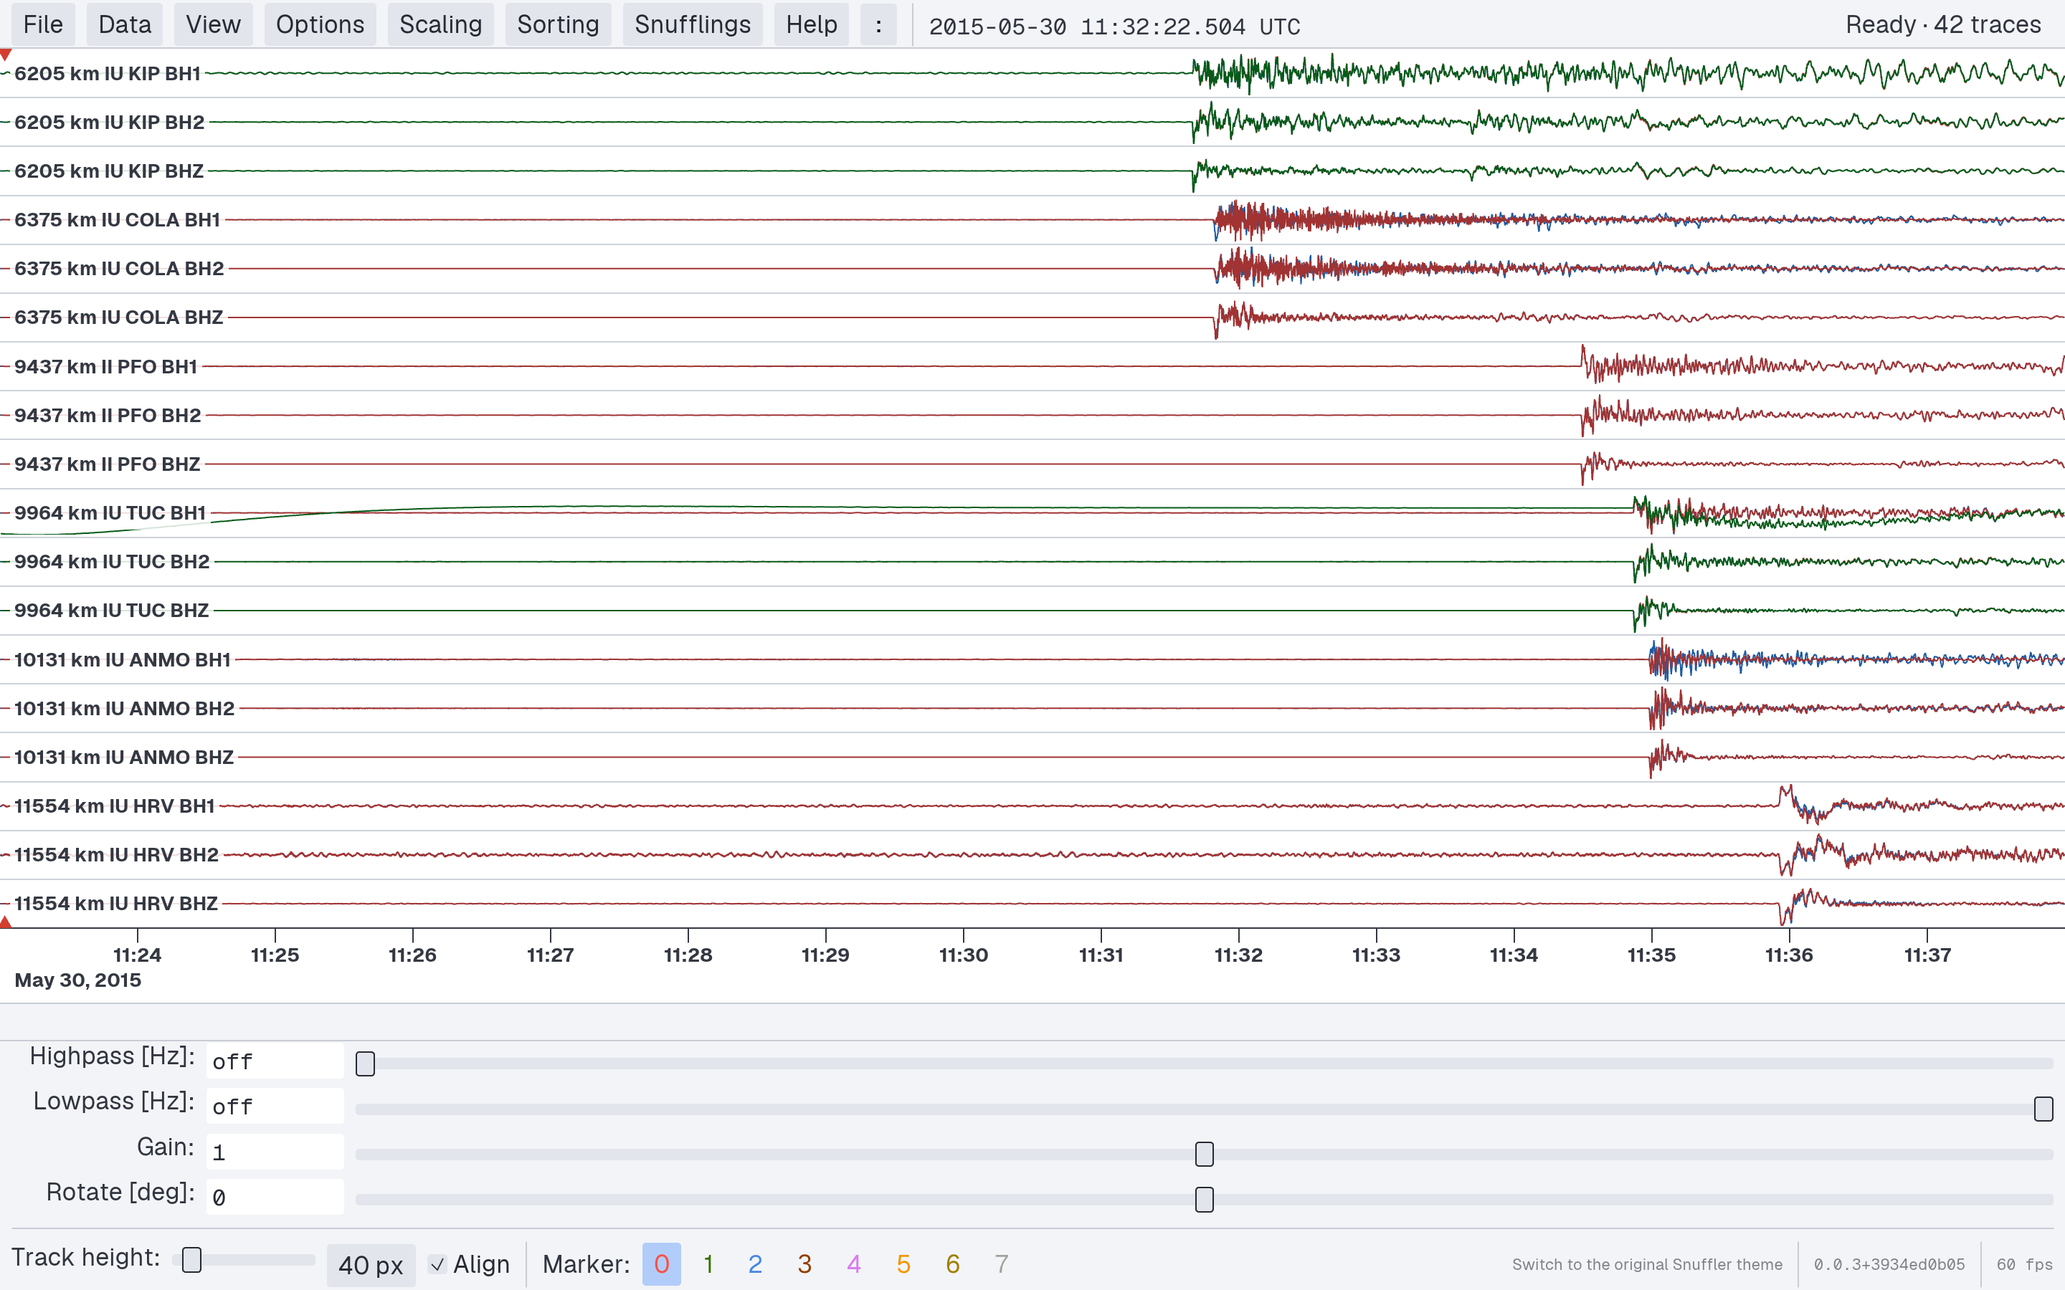
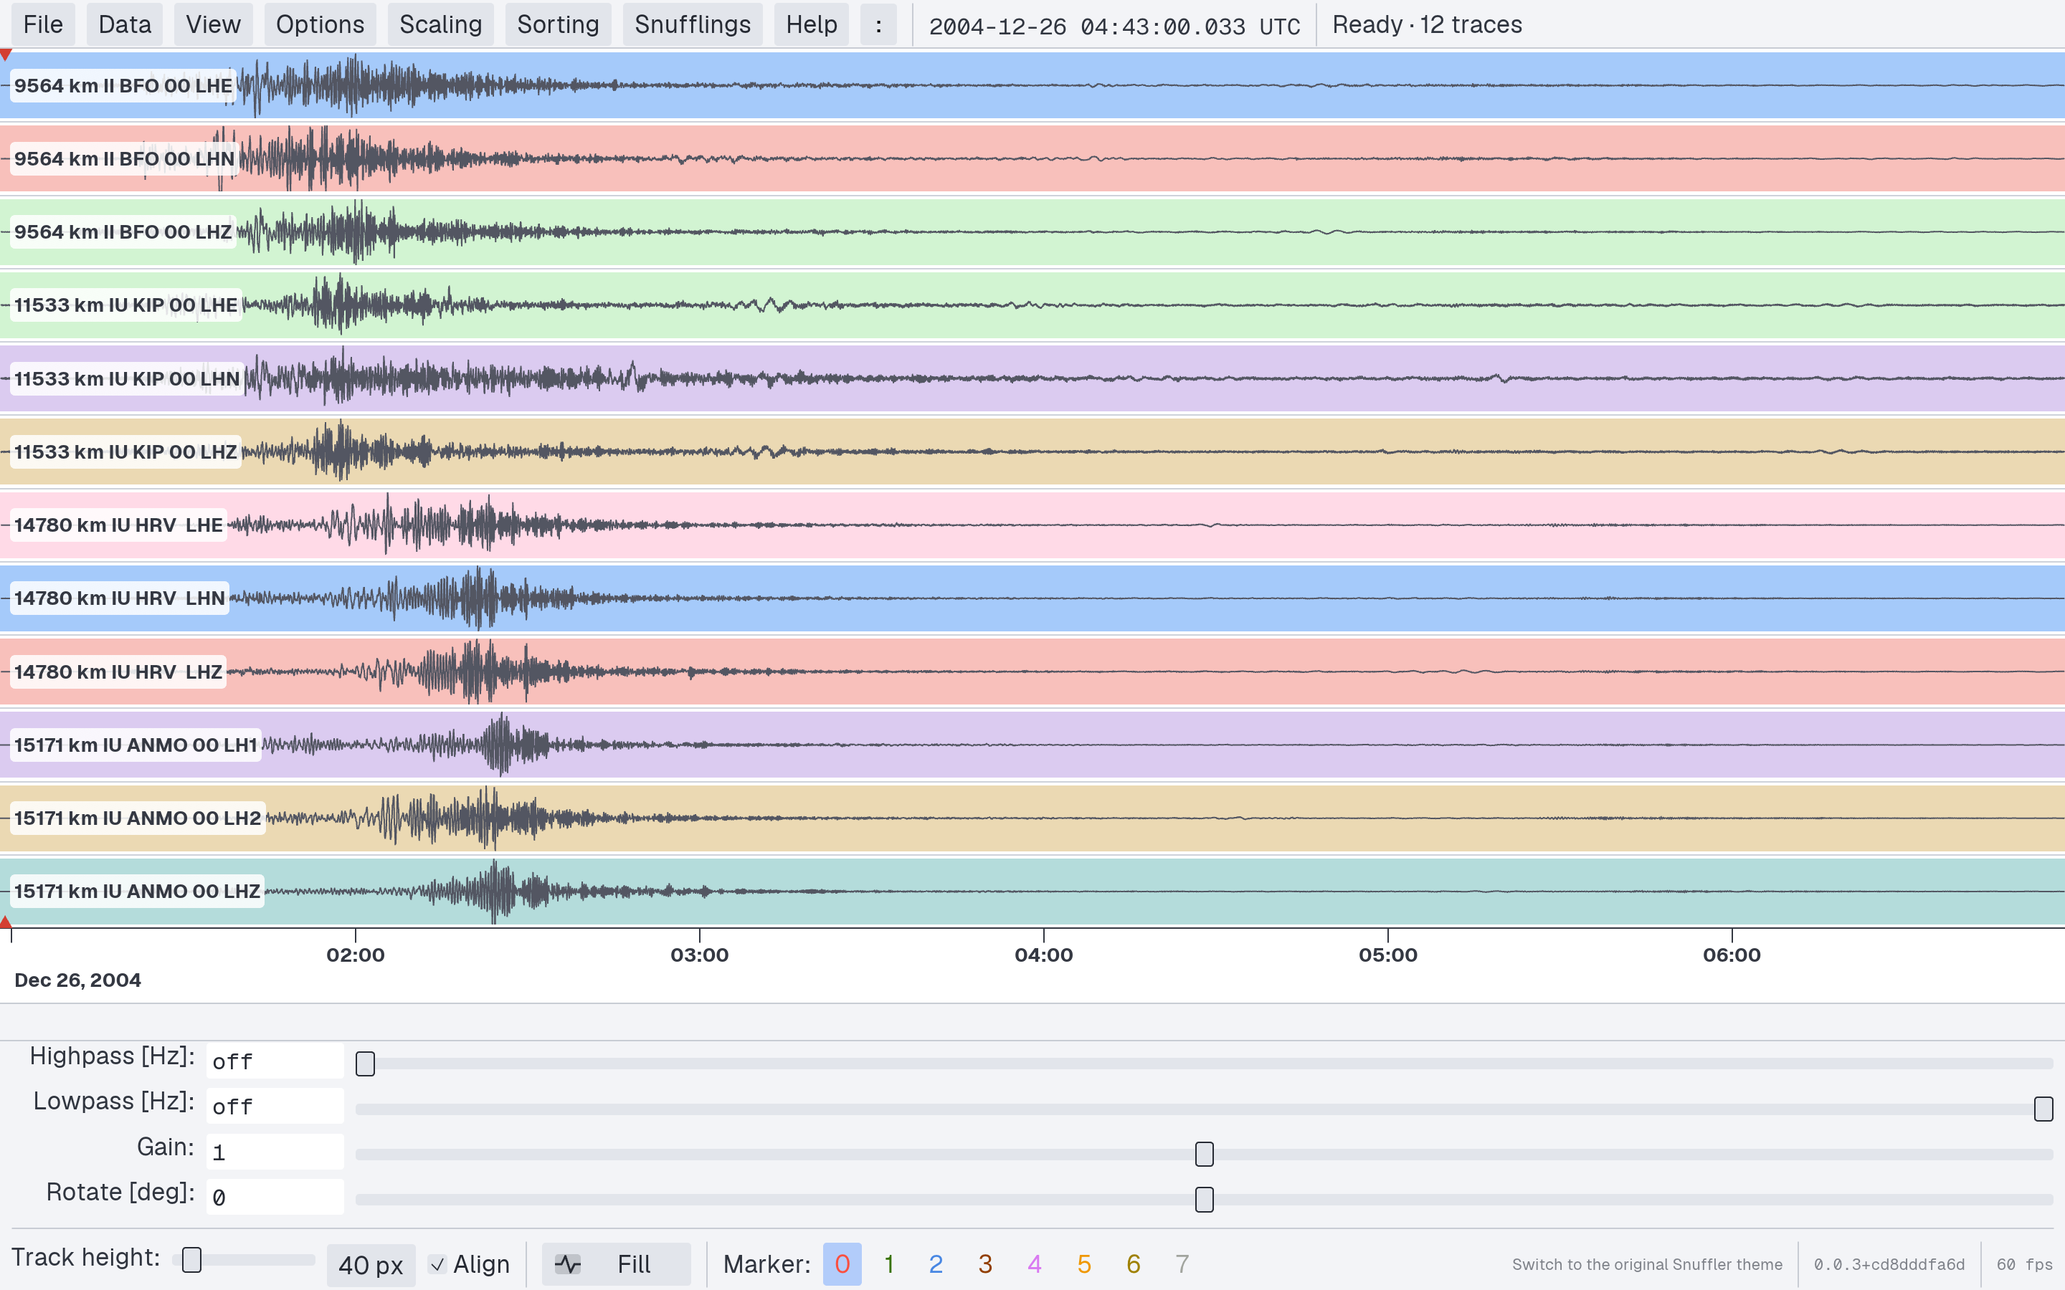
feat(ui): add stroke and fill shortcut with fill defaults

diff --git a/tests/a11y_browser_validate.ts b/tests/a11y_browser_validate.ts
@@ -313,6 +313,92 @@ async function checkPointerMode(page: Page): Promise<void> {
   await page.waitForTimeout(300);
 }
 
+async function checkTraceDisplayShortcut(page: Page): Promise<void> {
+  console.log("\ntrace display shortcut");
+  const view = page.getByRole("button", { name: "View", exact: true });
+  const stroke = page.getByRole("button", { name: "Trace display: Stroke", exact: true });
+  const fill = page.getByRole("button", { name: "Trace display: Fill", exact: true });
+  const mixed = page.getByRole("button", { name: "Trace display: Mixed", exact: true });
+  const boxesControl = page.getByRole("checkbox", { name: "Show boxes", exact: true });
+  const settings = async () => {
+    await view.evaluate((element) => (element as HTMLElement).click());
+    await boxesControl.waitFor();
+    const result = {
+      boxes:
+        (await page
+          .getByRole("checkbox", { name: "Show boxes", exact: true })
+          .getAttribute("aria-checked")) === "true",
+      colored:
+        (await page
+          .getByRole("checkbox", { name: "Color traces", exact: true })
+          .getAttribute("aria-checked")) === "true",
+    };
+    await view.evaluate((element) => (element as HTMLElement).click());
+    await boxesControl.waitFor({ state: "hidden" });
+    return result;
+  };
+  const setSettings = async (boxes: boolean, colored: boolean) => {
+    await view.evaluate((element) => (element as HTMLElement).click());
+    await boxesControl.waitFor();
+    for (const option of [
+      { name: "Show boxes", checked: boxes },
+      { name: "Color traces", checked: colored },
+    ]) {
+      const control = page.getByRole("checkbox", { name: option.name, exact: true });
+      if ((await control.getAttribute("aria-checked")) !== String(option.checked)) {
+        await control.evaluate((element) => (element as HTMLElement).click());
+        await page.waitForFunction(
+          ({ name, checked }) =>
+            [...document.querySelectorAll("#snuffler-a11y [role=checkbox]")].some(
+              (element) =>
+                element.getAttribute("aria-label") === name &&
+                element.getAttribute("aria-checked") === String(checked)
+            ),
+          option
+        );
+      }
+    }
+    await view.evaluate((element) => (element as HTMLElement).click());
+    await boxesControl.waitFor({ state: "hidden" });
+  };
+
+  await setSettings(false, true);
+  await stroke.waitFor();
+  const strokeBox = await stroke.boundingBox();
+  await stroke.click();
+  await fill.waitFor();
+  const fillBox = await fill.boundingBox();
+  let options = await settings();
+  check("Stroke switches both View options to Fill", options.boxes && !options.colored);
+  check("the shortcut keeps its width when toggled", strokeBox?.width === fillBox?.width);
+
+  await fill.click();
+  await stroke.waitFor();
+  options = await settings();
+  check("Fill switches both View options to Stroke", !options.boxes && options.colored);
+
+  for (const enabled of [true, false]) {
+    await setSettings(enabled, enabled);
+    await mixed.waitFor();
+    check(
+      `both options ${enabled ? "on" : "off"} disable the Mixed shortcut`,
+      !(await mixed.isEnabled())
+    );
+    await mixed.evaluate((element) => (element as HTMLButtonElement).click());
+    options = await settings();
+    check(
+      "the disabled shortcut preserves custom View settings",
+      options.boxes === enabled && options.colored === enabled
+    );
+  }
+
+  await setSettings(true, false);
+  await fill.waitFor();
+  check("complementary View settings re-enable the shortcut", await fill.isEnabled());
+  await fill.click();
+  await stroke.waitFor();
+}
+
 async function checkKeyboard(page: Page): Promise<void> {
   console.log("\nkeyboard");
   await page.$eval(`${OVERLAY} [aria-label="Options"]`, (element) =>
@@ -678,6 +764,7 @@ async function main(): Promise<void> {
     await checkStructure(page);
     await checkBorrowedNames(page);
     await checkPointerMode(page);
+    await checkTraceDisplayShortcut(page);
     await checkKeyboard(page);
     await checkResize(page);
     await checkCanvasStillReachable(page);

diff --git a/tests/parity/inventory_web.ts b/tests/parity/inventory_web.ts
@@ -246,7 +246,9 @@ function controlsFrom(nodes: OverlayNode[]): Record<string, unknown>[] {
   const controls: Record<string, unknown>[] = [];
   const seen = new Set<string>();
   for (const node of nodes) {
-    if (!interactiveRoles.has(node.role) || seen.has(node.name)) continue;
+    const traceDisplayShortcut = node.role === "button" && node.name.startsWith("Trace display: ");
+    if ((!interactiveRoles.has(node.role) && !traceDisplayShortcut) || seen.has(node.name))
+      continue;
     seen.add(node.name);
     controls.push({
       name: node.name,

diff --git a/crates/snuffler-web-egui/src/view/controls.rs b/crates/snuffler-web-egui/src/view/controls.rs
@@ -8,6 +8,7 @@
 
 use std::ops::RangeInclusive;
 
+use egui::AtomExt as _;
 use snuffler_web_core::state::{
     AppState, ColorScale, Colormap, MAX_TRACK_HEIGHT_PX, MIN_TRACK_HEIGHT_PX, ViewMode,
     WaterfallSettings,
@@ -356,6 +357,8 @@ pub fn show(
     ui.horizontal_wrapped(|ui| {
         track_height_controls(ui, state, track_count);
         ui.separator();
+        trace_display_button(ui, state);
+        ui.separator();
         marker_kind_buttons(ui, state);
         show_readout(ui, state);
     });
@@ -363,6 +366,102 @@ pub fn show(
     // Snuffler's `ColorbarControl`, shown only in waterfall mode
     if waterfall {
         ui.horizontal_wrapped(|ui| colorbar_controls(ui, &mut state.waterfall));
+    }
+}
+
+/// A shortcut for the two complementary combinations of the existing drawing options.
+fn trace_display_button(ui: &mut egui::Ui, state: &mut AppState) {
+    let canvas = crate::view::palette_for(ui.ctx().theme(), state.wiggle_theme).theme;
+    let boxes = state.boxes_visible(canvas);
+    let colored = state.color_traces(canvas);
+    let label = match (boxes, colored) {
+        (false, true) => "Stroke",
+        (true, false) => "Fill",
+        _ => "Mixed",
+    };
+    let waterfall = state.view_mode == ViewMode::Waterfall;
+    let enabled = boxes != colored && !waterfall;
+    let tooltip = if waterfall {
+        "Disabled in Waterfall view; switch to Wiggle to toggle colored strokes and filled boxes."
+    } else {
+        match (boxes, colored) {
+            (false, true) => {
+                "Switch to filled boxes with monochrome traces instead of colored strokes."
+            }
+            (true, false) => "Switch to colored strokes without boxes.",
+            (true, true) => {
+                "Disabled because Show boxes and Color traces are both on; change one in View to toggle colored strokes and filled boxes."
+            }
+            (false, false) => {
+                "Disabled because Show boxes and Color traces are both off; change one in View to toggle colored strokes and filled boxes."
+            }
+        }
+    };
+    let icon_id = ui.make_persistent_id("trace-display-icon");
+    let response = ui
+        .add_enabled_ui(enabled, |ui| {
+            let output = egui::Button::new((
+                egui::Atom::custom(icon_id, egui::vec2(20.0, 16.0)),
+                label
+                    .atom_grow(true)
+                    .atom_align(egui::Align2::CENTER_CENTER),
+            ))
+            .min_size(egui::vec2(104.0, ui.spacing().interact_size.y))
+            .atom_ui(ui);
+            if let Some(rect) = output.rect(icon_id) {
+                let ink = ui.style().interact(&output.response).fg_stroke.color;
+                let rect = rect.shrink(1.0);
+                let painter = ui.painter();
+                if boxes == colored {
+                    painter.rect_stroke(
+                        rect,
+                        2.0,
+                        egui::Stroke::new(1.5_f32, ink),
+                        egui::StrokeKind::Inside,
+                    );
+                    painter.line_segment(
+                        [
+                            rect.left_center() + egui::vec2(4.0, 0.0),
+                            rect.right_center() - egui::vec2(4.0, 0.0),
+                        ],
+                        egui::Stroke::new(1.5_f32, ink),
+                    );
+                } else {
+                    if boxes {
+                        let opacity = if ui.visuals().dark_mode { 0.35 } else { 0.18 };
+                        painter.rect_filled(rect, 2.0, ink.gamma_multiply(opacity));
+                    }
+                    let point = |x, y| rect.lerp_inside(egui::vec2(x, y));
+                    painter.add(egui::Shape::line(
+                        vec![
+                            point(0.0, 0.5),
+                            point(0.25, 0.5),
+                            point(0.4, 0.1),
+                            point(0.6, 0.9),
+                            point(0.75, 0.5),
+                            point(1.0, 0.5),
+                        ],
+                        egui::Stroke::new(1.5_f32, ink),
+                    ));
+                }
+            }
+            output.response
+        })
+        .inner;
+    response.widget_info(|| {
+        egui::WidgetInfo::labeled(
+            egui::WidgetType::Button,
+            response.enabled(),
+            format!("Trace display: {label}"),
+        )
+    });
+    if response
+        .on_hover_text(tooltip)
+        .on_disabled_hover_text(tooltip)
+        .clicked()
+    {
+        state.show_boxes = Some(!boxes);
+        state.show_color_traces = Some(!colored);
     }
 }
 

diff --git a/crates/snuffler-web-core/src/theme.rs b/crates/snuffler-web-core/src/theme.rs
@@ -77,7 +77,7 @@ pub enum WiggleTheme {
     SnufflerQt,
     /// Mineral blues, brick red and leaf green, balanced by quieter
     /// supporting inks.
-    /// The one web theme that colours every stroke, see [`Self::stroke_policy`].
+    /// Colored boxes with monochrome strokes by default.
     Fieldbook,
     /// Fired clay and ochre, balanced by indigo, sage and glazed teal.
     Kiln,
@@ -172,7 +172,7 @@ impl WiggleTheme {
             }
             WiggleTheme::Fieldbook => {
                 "Balanced mineral blues, brick red and leaf green, with quieter supporting inks. \
-                 Coloured strokes without trace boxes by default."
+                 Coloured trace boxes with monochrome strokes by default."
             }
             WiggleTheme::Kiln => {
                 "Fired clay and ochre, balanced by indigo, sage and glazed teal. \
@@ -206,23 +206,22 @@ impl WiggleTheme {
     }
 
     /// Whether trace boxes are drawn when the user has not chosen an override.
-    /// Fieldbook leaves its coloured strokes on the plain canvas in both polarities.
+    /// Fieldbook draws boxes in both polarities; other themes draw them on light only.
     #[must_use]
     pub const fn default_boxes(self, theme: Theme) -> bool {
-        !matches!(self, Self::Fieldbook) && matches!(theme, Theme::Light)
+        matches!(self, Self::Fieldbook) || matches!(theme, Theme::Light)
     }
 
     /// How this theme colours strokes, absent an explicit choice from the user.
     ///
     /// [`Self::SnufflerQt`] claims fidelity, so it boots monochrome as snuffler does.
-    /// [`Self::Fieldbook`] is built around coloured strokes; the mood themes keep
-    /// snuffler's single ink while the box colours carry the mood, and hand the
+    /// [`Self::Fieldbook`] also boots monochrome while its boxes carry the colors.
+    /// The mood themes keep snuffler's single ink while the box colours carry the mood, and hand the
     /// colouring to the strokes exactly when the boxes stop separating the traces.
     #[must_use]
     pub const fn stroke_policy(self) -> StrokePolicy {
         match self {
-            WiggleTheme::SnufflerQt => StrokePolicy::Monochrome,
-            WiggleTheme::Fieldbook => StrokePolicy::Colored,
+            WiggleTheme::SnufflerQt | WiggleTheme::Fieldbook => StrokePolicy::Monochrome,
             WiggleTheme::Kiln
             | WiggleTheme::Fjord
             | WiggleTheme::Daybreak

diff --git a/crates/snuffler-web-core/src/state/mod.rs b/crates/snuffler-web-core/src/state/mod.rs
@@ -446,7 +446,7 @@ impl AppState {
     /// Whether the trace boxes are drawn: the user's choice if they made one,
     /// otherwise what the theme defaults to for the current canvas.
     ///
-    /// Fieldbook hides boxes on both canvases; other themes draw them on light only.
+    /// Fieldbook draws boxes on both canvases; other themes draw them on light only.
     /// The user's explicit choice overrides either default.
     #[must_use]
     pub fn boxes_visible(&self, theme: Theme) -> bool {
@@ -517,20 +517,20 @@ mod tests {
     use super::AppState;
 
     #[test]
-    fn fieldbook_defaults_to_colored_traces_without_boxes_on_both_canvases() {
+    fn fieldbook_defaults_to_filled_boxes_with_monochrome_traces_on_both_canvases() {
         let mut state = AppState::default();
         assert_eq!(state.wiggle_theme, WiggleTheme::Fieldbook);
         for theme in Theme::ALL {
-            assert!(!state.boxes_visible(theme));
-            assert!(state.color_traces(theme));
+            assert!(state.boxes_visible(theme));
+            assert!(!state.color_traces(theme));
         }
 
         // Explicit drawing choices still override the theme defaults.
-        state.show_boxes = Some(true);
-        state.show_color_traces = Some(false);
+        state.show_boxes = Some(false);
+        state.show_color_traces = Some(true);
         for theme in Theme::ALL {
-            assert!(state.boxes_visible(theme));
-            assert!(!state.color_traces(theme));
+            assert!(!state.boxes_visible(theme));
+            assert!(state.color_traces(theme));
         }
     }
 

diff --git a/crates/snuffler-web-egui/src/app/status.rs b/crates/snuffler-web-egui/src/app/status.rs
@@ -238,7 +238,7 @@ impl App {
             + ui.spacing().item_spacing.x * 2.0
             + 6.0;
         // Keep the existing controls on their row when the window is narrow.
-        if ui.available_width() < width {
+        if ui.available_size_before_wrap().x < width {
             return;
         }
         ui.with_layout(egui::Layout::right_to_left(egui::Align::Center), |ui| {

diff --git a/docs/ARCHITECTURE.md b/docs/ARCHITECTURE.md
@@ -7,7 +7,13 @@ The two exchange protobuf messages.
 An optional server, snuffler-web-proxy, is needed for live data, because live streams use TCP,
 which a browser cannot open.
 
-<img alt="Diagram of the three places code runs. In the browser, the main thread runs the Rust frontend in WebAssembly and TypeScript glue in the JavaScript engine; a Pyodide worker runs a TypeScript relay and the Python bridge on CPython in WebAssembly; an ONNX worker runs the SeisBench models. An optional backend server runs snuffler-web-proxy. FDSN requests go to the external data centers directly, or through the proxy when the browser cannot reach them; live SeedLink streams go through the proxy, and map tiles come straight from the tile servers. Files the user opens go through the main thread, and a Green's-function store folder is mounted into the Pyodide worker." src="architecture.svg">
+<p align="center">
+  <br>
+  <img width="90%" alt="Diagram of the three places code runs. In the browser, the main thread runs the Rust frontend in WebAssembly and TypeScript glue in the JavaScript engine; a Pyodide worker runs a TypeScript relay and the Python bridge on CPython in WebAssembly; an ONNX worker runs the SeisBench models. An optional backend server runs snuffler-web-proxy. FDSN requests go to the external data centers directly, or through the proxy when the browser cannot reach them; live SeedLink streams go through the proxy, and map tiles come straight from the tile servers. Files the user opens go through the main thread, and a Green's-function store folder is mounted into the Pyodide worker." src="architecture.svg">
+  <br>
+  The browser threads, their runtimes, and the optional proxy.
+  <br><br>
+</p>
 
 ## Division of work
 

diff --git a/adr/0001-wiggle-theme-design.md b/adr/0001-wiggle-theme-design.md
@@ -105,9 +105,15 @@ A saved disabled theme falls back to Fieldbook.
 | Setting | Snuffler Qt | Fieldbook | Disabled web themes |
 | --- | --- | --- | --- |
 | Canvas | light, pinned | follows the app | follows the app |
-| Show boxes | on | off in light and dark | on light, off dark |
-| Color traces | off (upstream boots so) | on | only when the boxes cannot separate |
+| Show boxes | on | on in light and dark | on light, off dark |
+| Color traces | off (upstream boots so) | off | only when the boxes cannot separate |
 | Track separators | off | on | on |
+
+The bottom-row Stroke/Fill button is a shortcut for Show boxes and Color traces:
+Stroke has boxes off and colored traces on; Fill has boxes on and colored traces off.
+Both themes default to Fill.
+The button derives its state from those options and shows a disabled Mixed state when
+both are on or both are off.
 
 "Only when the boxes cannot separate" means the boxes are hidden **or** the subsort groups
 locations. All three are `Option<bool>`: the user's click outranks the default and is what

diff --git a/README.md b/README.md
@@ -9,10 +9,10 @@ Everything runs in the browser, and files you open are not uploaded.
   <br>
   <picture>
     <source media="(prefers-color-scheme: light)" srcset="https://raw.githubusercontent.com/romnn/snuffler-web/main/docs/screenshots/hero-light.png">
-    <img width="75%" alt="snuffler-web showing the 2015 Bonin Islands earthquake, with three components per station, sorted by distance" src="https://raw.githubusercontent.com/romnn/snuffler-web/main/docs/screenshots/hero.png">
+    <img width="90%" alt="snuffler-web showing surface waves from the 2004 Sumatra earthquake, with three components per station, sorted by distance" src="https://raw.githubusercontent.com/romnn/snuffler-web/main/docs/screenshots/hero.png">
   </picture>
   <br>
-  <em>The 2015 Bonin Islands earthquake: three components per station, sorted by distance.</em>
+  Surface waves from the 2004 Sumatra earthquake: three components per station, sorted by distance.
   <br><br>
 </p>
 
